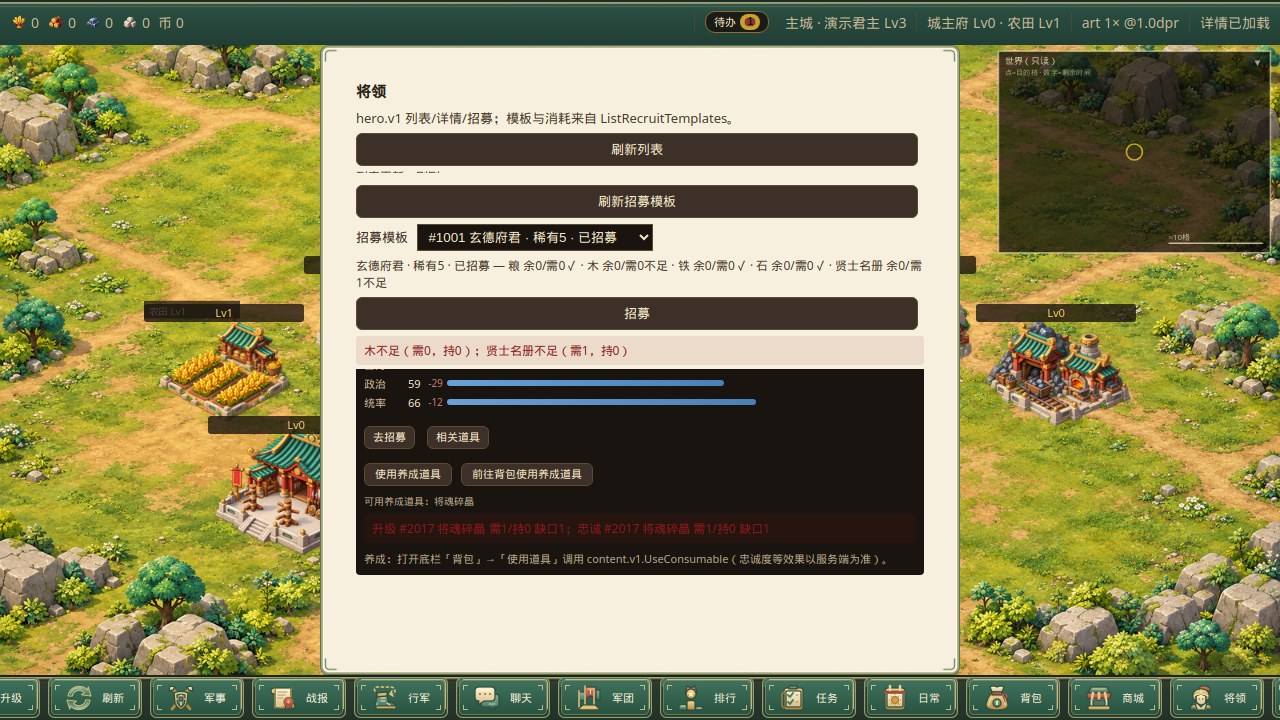
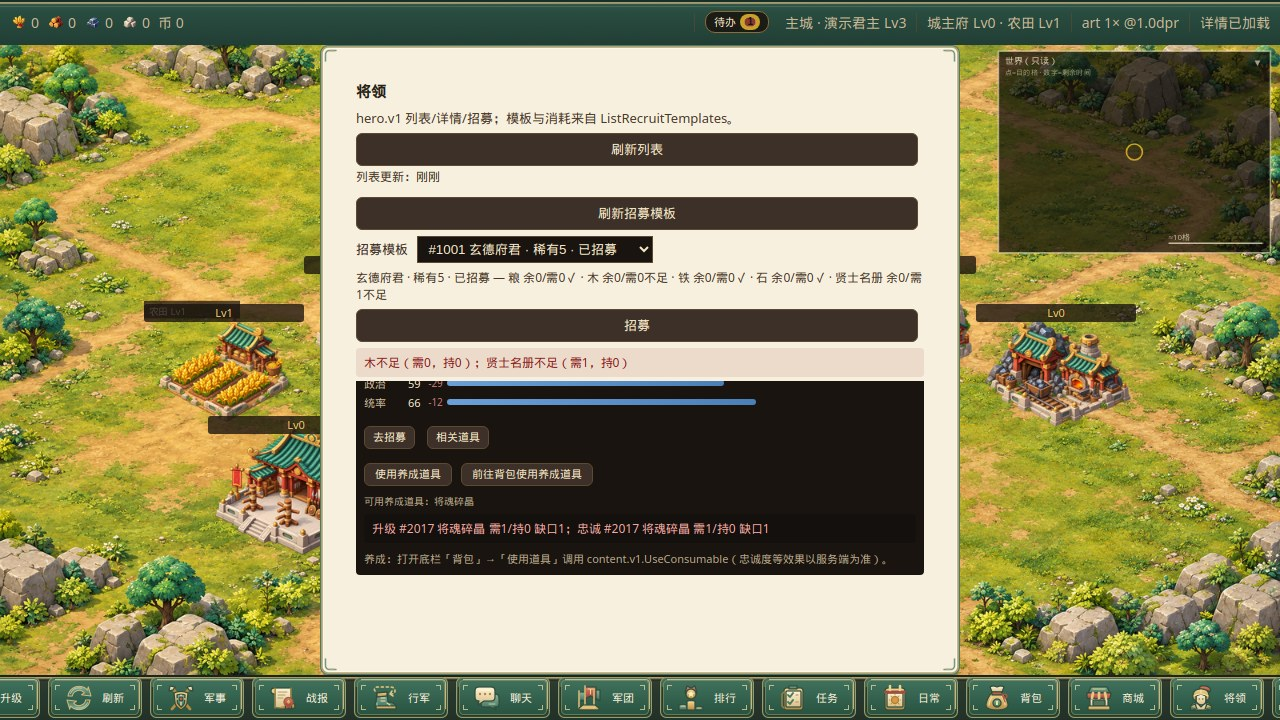
ART-012: hero panel wide scroll + ink deficit hint contrast
- Flex host + panel-scroll-body scroll at 1600; unclamp hero-detail max-height
- Ink deficit hints (#f0a8a0) for gap lines and cultivation disabled reason
- Extend capture probes/checklist and DPR2 detail-scroll JPEG

Changed region(s): [[0.2812, 0.2139, 0.7188, 0.55], [0.2812, 0.7028, 0.5938, 0.7639]]

diff --git a/client/index.html b/client/index.html
@@ -1974,6 +1974,25 @@
         outline: 2px dashed #e8a090;
         box-shadow: 0 0 10px rgba(232, 160, 144, 0.35);
       }
+      /* ART-012 QA: hero center panel — nine-slice host scrolls via panel-scroll-body (wide + narrow). */
+      .content-panel[data-center-panel="hero"] {
+        display: flex;
+        flex-direction: column;
+        overflow: hidden;
+      }
+      .content-panel[data-center-panel="hero"] > :not(.panel-scroll-body) {
+        flex-shrink: 0;
+      }
+      .content-panel[data-center-panel="hero"] .panel-scroll-body {
+        flex: 1 1 auto;
+        min-height: 0;
+        overflow-y: auto;
+      }
+      .content-panel[data-center-panel="hero"] .template-list,
+      .content-panel[data-center-panel="hero"] .hero-list {
+        max-height: none;
+        overflow: visible;
+      }
       /* CLIENT-188 / ART-012 QA: paper vs hero-detail ink — scoped to ui.panel.hero.v1 host only */
       .content-panel[data-center-panel="hero"] [data-role="hero-hint"],
       .content-panel[data-center-panel="hero"] .hero-list-refresh-status,
@@ -1997,6 +2016,17 @@
       }
       .content-panel[data-center-panel="hero"] .hero-detail {
         color: #e8dcc8;
+        max-height: none;
+        overflow-y: visible;
+      }
+      .content-panel[data-center-panel="hero"] .hero-detail .hero-upgrade-item-gap.hero-upgrade-item-gap-warn,
+      .content-panel[data-center-panel="hero"] .hero-detail [data-role="hero-upgrade-item-gap"].hero-upgrade-item-gap-warn {
+        color: #f0a8a0;
+        font-weight: 600;
+      }
+      .content-panel[data-center-panel="hero"] .hero-detail .hero-cultivation-disabled-reason {
+        color: #f0a8a0;
+        background: rgba(0, 0, 0, 0.22);
       }
       .content-panel[data-center-panel="hero"] .hero-detail .recruit-afford-primary {
         color: #f5e6c8;

diff --git a/client/src/engine/heroPanelTextContrast.test.ts b/client/src/engine/heroPanelTextContrast.test.ts
@@ -5,6 +5,7 @@ import {
   CLIENT_188_HERO_PANEL_CONTRAST_MARKER,
   HERO_PANEL_CONTRAST_SCOPE_SELECTOR,
   HERO_PANEL_INK_BODY_COLOR,
+  HERO_PANEL_INK_DEFICIT_COLOR,
   HERO_PANEL_INK_MUTED_COLOR,
   HERO_PANEL_PAPER_MUTED_COLOR,
   HERO_PANEL_PAPER_OWNED_COLOR,
@@ -22,6 +23,8 @@ describe("heroPanelTextContrast (CLIENT-188)", () => {
     expect(html).toContain(HERO_PANEL_PAPER_SECONDARY_COLOR);
     expect(html).toContain(HERO_PANEL_INK_BODY_COLOR);
     expect(html).toContain(HERO_PANEL_INK_MUTED_COLOR);
+    expect(html).toContain(HERO_PANEL_INK_DEFICIT_COLOR);
+    expect(html).toMatch(/hero-cultivation-disabled-reason[\s\S]*#f0a8a0/);
     expect(html).toContain(HERO_PANEL_PAPER_OWNED_COLOR);
     expect(html).toMatch(/CLIENT-188[\s\S]*recruit-cost-preview[\s\S]*#4a3828/);
     expect(html).toMatch(/CLIENT-188[\s\S]*\.hero-detail[\s\S]*#e8dcc8/);

diff --git a/client/src/engine/heroPanelTextContrast.ts b/client/src/engine/heroPanelTextContrast.ts
@@ -16,5 +16,8 @@ export const HERO_PANEL_INK_BODY_COLOR = "#e8dcc8";
 /** Labels / secondary on hero-detail ink surface. */
 export const HERO_PANEL_INK_MUTED_COLOR = "#c9b896";
 
+/** Deficit / gap hints on hero-detail ink surface (#1a1410). */
+export const HERO_PANEL_INK_DEFICIT_COLOR = "#f0a8a0";
+
 /** Owned recruit row accent on paper (darker than legacy #a8c4a0). */
 export const HERO_PANEL_PAPER_OWNED_COLOR = "#3d5c38";

diff --git a/docs/art/samples/art-center-panel-012/runtime/INVENTORY.md b/docs/art/samples/art-center-panel-012/runtime/INVENTORY.md
@@ -1,6 +1,6 @@
 # INVENTORY — ART-CENTER-PANEL-012 runtime
 
-Runtime code at capture: `76e209ac1b4b0f60150f94c8c70a840b6a6518b6` (mock + client; must resolve on GitHub).
+Runtime code at capture: `9737f49a08e3e7b518d03ad22cc89d579ac61e52` (mock + client; must resolve on GitHub).
 Screenshot JPEGs / probe-log land in a follow-up git commit — after push, set `screenshot_artifacts_commit_sha` in `probe-log.json` to that commit (often same as runtime when captured on a clean checkout).
 Art PNGs from Draft #697 @ `bcf05c7365f92f17142f4ce25a3ba1bdd2b80247` (**not merged**).
 
@@ -18,6 +18,7 @@ Art PNGs from Draft #697 @ `bcf05c7365f92f17142f4ce25a3ba1bdd2b80247` (**not mer
 | `hero-center-panel-3200x1800.jpg` | 1600×900 DPR2 | 2× 纹理路径 `textures/2x/ui/panel_hero.png` |
 | `hero-center-panel-1280x720.jpg` | 1280×720 DPR1 | 窄布局 `layout-narrow` |
 | `hero-center-panel-1280x720-detail-scroll.jpg` | 1280×720 | `.panel-scroll-body` 滚至底部 |
+| `hero-center-panel-3200x1800-detail-scroll.jpg` | 1600×900 DPR2 | 宽屏滚至详情末尾 |
 
 ## Checklist
 
@@ -26,10 +27,15 @@ Art PNGs from Draft #697 @ `bcf05c7365f92f17142f4ce25a3ba1bdd2b80247` (**not mer
 - [x] no top color bar
 - [x] detail inside scroll body
 - [x] 1280 scroll reaches detail bottom
+- [x] 1280 scroll detail footer reachable
 - [x] paper muted readable
 - [x] ink body readable
 - [x] hero detail loaded (attrs table)
 - [x] 1280 scroll shows real detail (not error)
+- [x] 1600 detail not max-height clamped
+- [x] 1600/DPR2 scroll body scrollable when detail overflows
+- [x] 1600/DPR2 scroll reaches detail footer
+- [x] 1280 scroll-bottom deficit hint readable on ink
 
 Regenerate: `cd client && node scripts/capture-art-center-panel-012-evidence.mjs`
 
